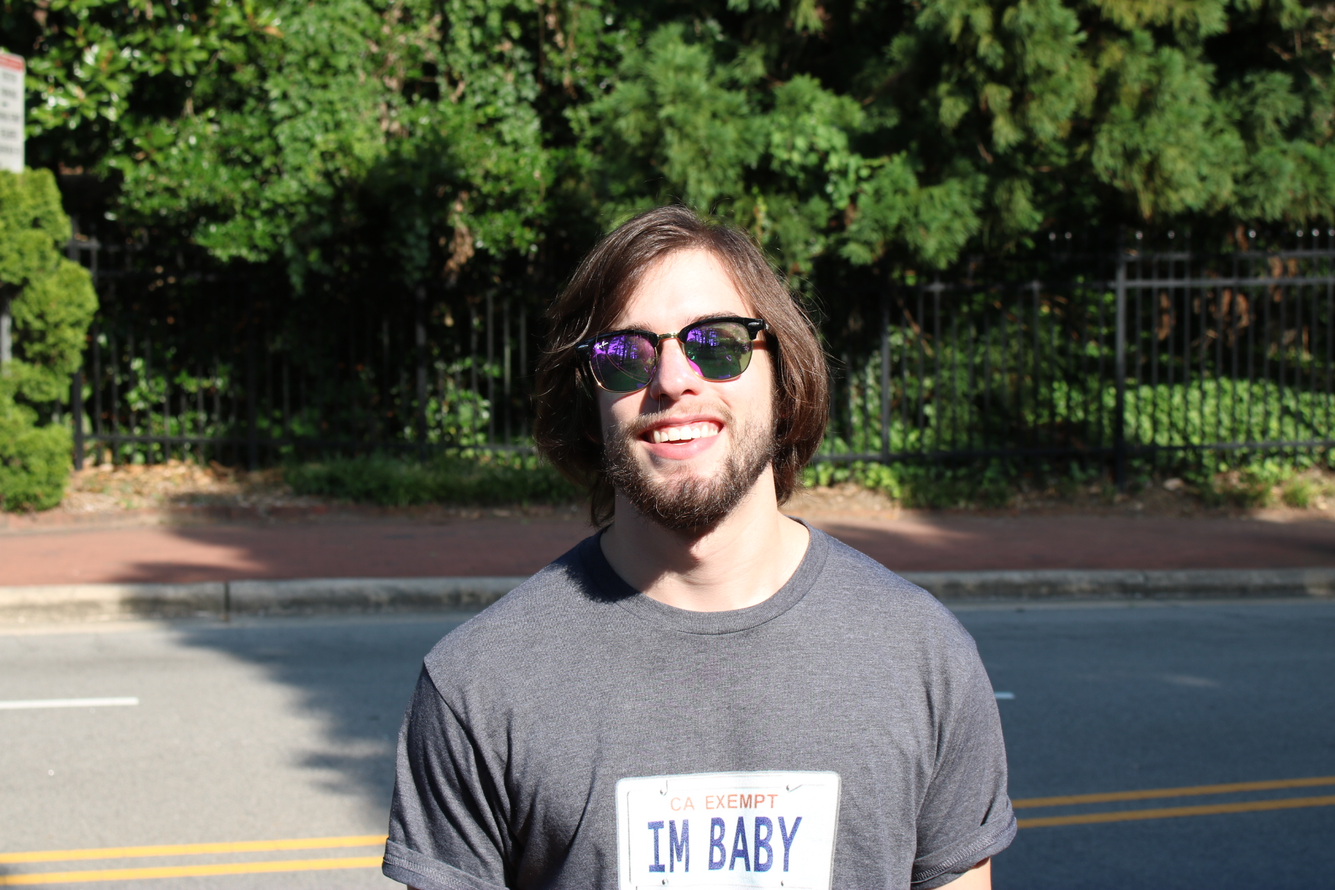
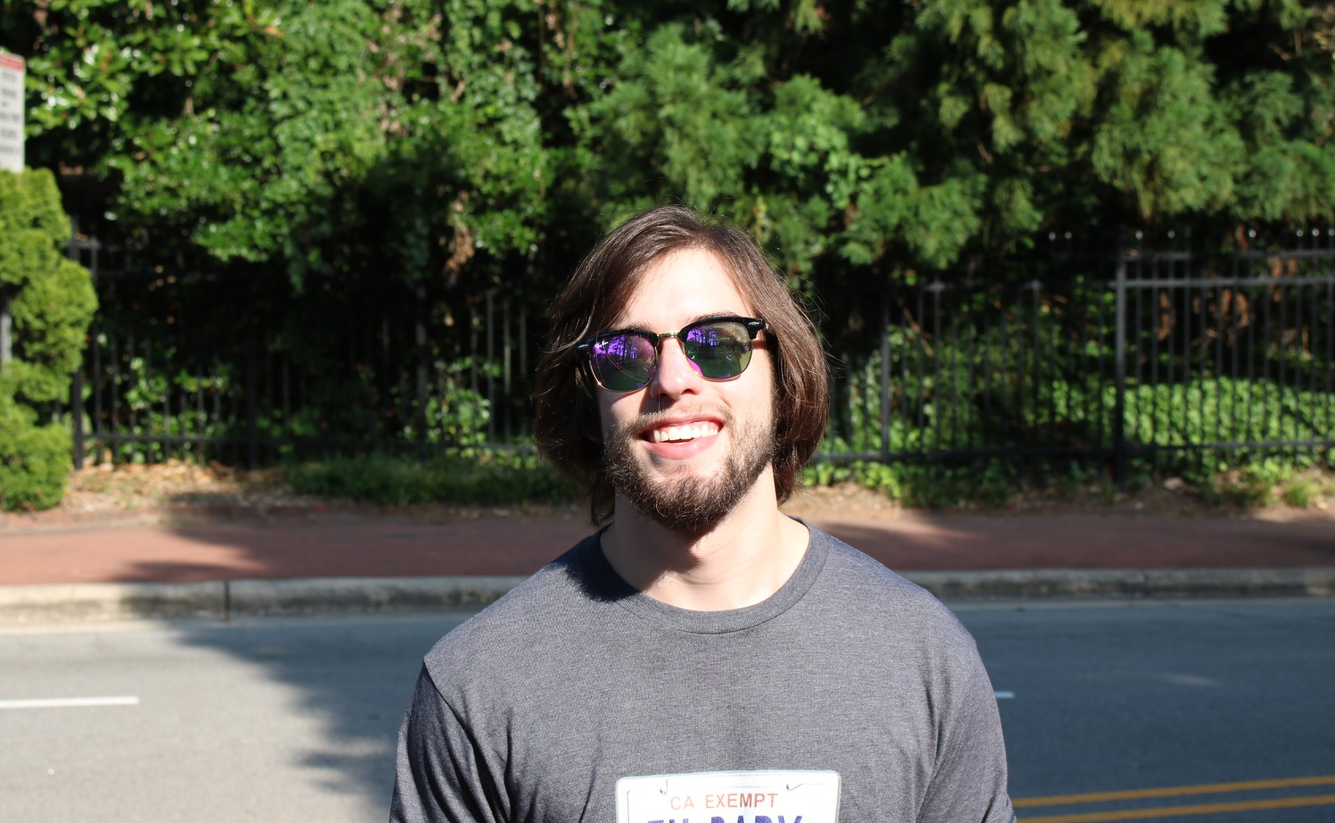
added playlist link and cropped header image

diff --git a/index.html b/index.html
@@ -52,7 +52,7 @@ frank zappa lives here
             <p>
                 <a href="https://medium.com/@thornjohnd">Blog</a><br>
                 <a href="https://www.youtube.com/channel/UCiiSOBgx5NoeBTizRLY16yw">Video</a><br>
-                <a href="https://zombo.com">Playlists</a>
+                <a href="https://open.spotify.com/user/johnthorn99?si=RY_6DTC9R4GFAmV1asvjog">Playlists</a>
             <p>
         </div>
     </body>
